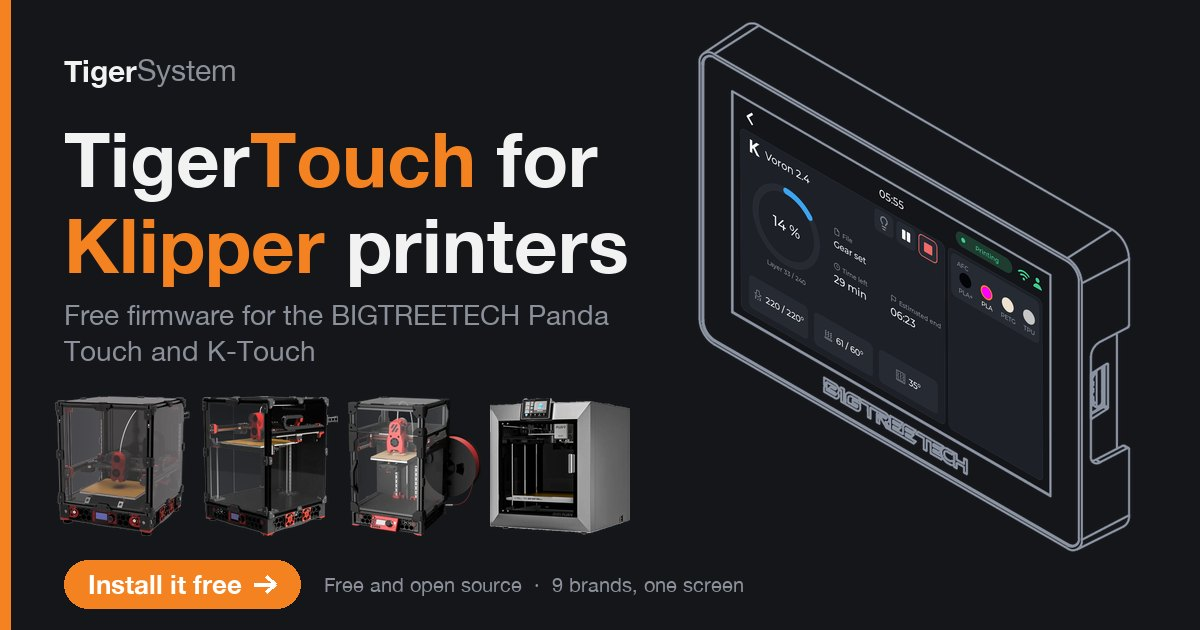
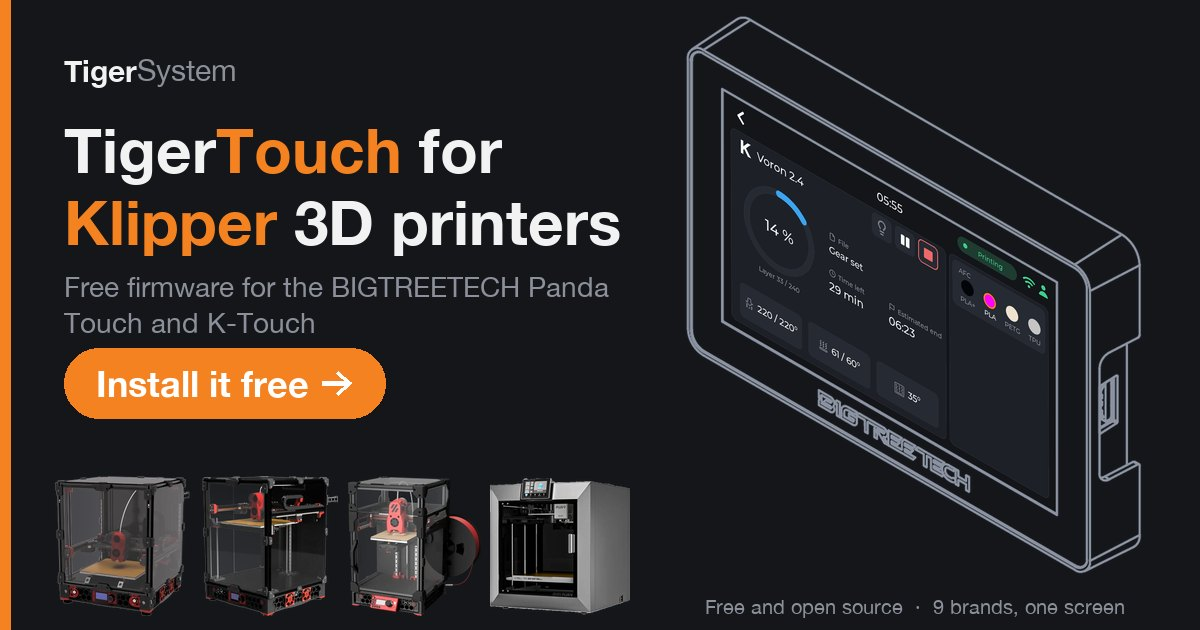
3D printers in every title; share pictures: a large button above the printers

diff --git a/scripts/make-brand-pages.py b/scripts/make-brand-pages.py
@@ -137,7 +137,7 @@ FEATURES = [
 def page(b, brands, pieces, svg):
     slug, name = b["slug"], b["name"]
     url = BASE + slug + "/"
-    title = "%s printers on Panda Touch / K-Touch | Tiger Touch" % name  # 60 characters at most
+    title = "%s 3D printers on Panda Touch & K-Touch | TigerTouch" % name  # 60 characters at most
     desc = b["meta"]  # written for search results: 150-160 characters, a whole sentence
     img = BASE + "img/%s.png" % slug
     # With its fingerprint: a network that cached an older picture fetches the new one.
@@ -180,19 +180,19 @@ def page(b, brands, pieces, svg):
 <link rel="canonical" href="{url}">
 <meta property="og:type" content="website">
 <meta property="og:site_name" content="Tiger Touch">
-<meta property="og:title" content="Tiger Touch for {name} printers">
+<meta property="og:title" content="Tiger Touch for {name} 3D printers">
 <meta property="og:description" content="{ogdesc}">
 <meta property="og:url" content="{url}">
 <meta property="og:locale" content="en_US">
 <meta property="og:image" content="{og}">
 <meta property="og:image:width" content="1200">
 <meta property="og:image:height" content="630">
-<meta property="og:image:alt" content="TigerTouch for {name} printers: the screen showing a {name} printer, and its lineup">
+<meta property="og:image:alt" content="TigerTouch for {name} 3D printers: the screen showing a {name} printer, and its lineup">
 <meta name="twitter:card" content="summary_large_image">
-<meta name="twitter:title" content="Tiger Touch for {name} printers">
+<meta name="twitter:title" content="Tiger Touch for {name} 3D printers">
 <meta name="twitter:description" content="{ogdesc}">
 <meta name="twitter:image" content="{og}">
-<meta name="twitter:image:alt" content="TigerTouch for {name} printers: the screen showing a {name} printer, and its lineup">
+<meta name="twitter:image:alt" content="TigerTouch for {name} 3D printers: the screen showing a {name} printer, and its lineup">
 <link rel="icon" href="favicon.svg" type="image/svg+xml">
 <link rel="stylesheet" href="../site.css?v={v_css}">
 <script>try {{ var t = localStorage.getItem("tigertouch-theme"); if (t === "light" || t === "dark") document.documentElement.dataset.theme = t; }} catch (e) {{}}</script>
@@ -220,7 +220,7 @@ def page(b, brands, pieces, svg):
     <div class="intro">
       <div class="bp-head">
         {logo_svg}
-        <h1 class="bp-title">Tiger<span>Touch</span> for <span>{name}</span> printers</h1>
+        <h1 class="bp-title">Tiger<span>Touch</span> for <span>{name}</span> 3D printers</h1>
       </div>
       <p class="lead">{lead}</p>
       <dl class="facts">
@@ -255,7 +255,7 @@ def page(b, brands, pieces, svg):
   </section>
 
   <section class="card bp-sec">
-    <h2>What the screen shows for a {name} printer</h2>
+    <h2>What the screen shows for a {name} 3D printer</h2>
     <ul class="ticks">{shows}</ul>
     <h3>Pause, stop and the light</h3>
     <p>{controls}</p>

diff --git a/scripts/make-og-images.py b/scripts/make-og-images.py
@@ -62,7 +62,7 @@ def card(title2, sub, device, printers, footer, font):
     d = ImageDraw.Draw(im)
     d.rectangle((0, 0, 10, H), fill=ACCENT)
     # The screen on the right, the words on the left.
-    paste_fit(im, device, (650, 18, 530, 540))
+    paste_fit(im, device, (650, 12, 530, 568))
     d.text((64, 52), "Tiger", font=font(30), fill=TEXT)
     d.text((64 + d.textlength("Tiger", font=font(30)), 52), "System", font=font(30, False), fill=MUTED)
     l1 = [("Tiger", TEXT), ("Touch", ACCENT), (" for" if title2 else "", TEXT)]
@@ -83,21 +83,23 @@ def card(title2, sub, device, printers, footer, font):
     for r in rows:
         d.text((64, y), r, font=so, fill=MUTED)
         y += so.size + 8
+    # What to do next, as the site's own button, big, under the words.
+    cta = "Install it free"
+    co = font(36)
+    tw = d.textlength(cta, font=co) + 44  # the text, then a drawn arrow (no font has one here)
+    top = y + 6
+    d.rounded_rectangle((64, top, 64 + tw + 64, top + 70), radius=35, fill=ACCENT)
+    d.text((64 + 32, top + 35), cta, font=co, fill=(255, 255, 255), anchor="lm")
+    ax = 64 + 32 + tw - 30
+    d.line((ax, top + 35, ax + 26, top + 35), fill=(255, 255, 255), width=5)
+    d.line((ax + 15, top + 24, ax + 27, top + 35, ax + 15, top + 46), fill=(255, 255, 255), width=5, joint="curve")
     # A few of the brand's printers along the bottom.
     x = 52
     for p in printers[:4]:
-        paste_fit(im, p, (x, 396, 140, 140))
+        paste_fit(im, p, (x, 476, 140, 140))
         x += 146
-    # What to do next, as the button the site uses: a click is what a share wants.
-    cta = "Install it free"
-    co = font(26)
-    tw = d.textlength(cta, font=co) + 34  # the text, then a drawn arrow (no font has one here)
-    d.rounded_rectangle((64, 560, 64 + tw + 48, 608), radius=24, fill=ACCENT)
-    d.text((64 + 24, 584), cta, font=co, fill=(255, 255, 255), anchor="lm")
-    ax = 64 + 24 + tw - 22
-    d.line((ax, 584, ax + 20, 584), fill=(255, 255, 255), width=4)
-    d.line((ax + 12, 576, ax + 21, 584, ax + 12, 592), fill=(255, 255, 255), width=4, joint="curve")
-    d.text((64 + tw + 72, 584), footer, font=font(20, False), fill=MUTED, anchor="lm")
+    # The small print, under the screen's drawing.
+    d.text((915, 606), footer, font=font(20, False), fill=MUTED, anchor="mm")
     return im.convert("RGB")
 
 
@@ -112,7 +114,7 @@ def main():
     models = ROOT / "assets" / "printers" / "models"
     footer = "Free and open source  ·  9 brands, one screen"
     for b in data:
-        im = card([(b["name"], ACCENT), (" printers", TEXT)],
+        im = card([(b["name"], ACCENT), (" 3D printers", TEXT)],
                   "Free firmware for the BIGTREETECH Panda Touch and K-Touch",
                   ROOT / "assets" / "devices" / "brands" / (b["shot"] + ".png"),
                   [models / m[0] for m in b["lineup"]], footer, font)

diff --git a/CHANGELOG.md b/CHANGELOG.md
@@ -105,8 +105,10 @@ they were written.
   own (125 characters at most, where previews cut; the search description stays
   150 to 160), an "Install it free" button in every share picture, and the
   picture's address carries its fingerprint so networks drop an old copy.
-  Page titles hold 60 characters at most ("<Brand> printers on Panda Touch /
-  K-Touch | Tiger Touch"). All ten pages: 0 error, 0 warning.
+  Page titles hold 60 characters at most ("<Brand> 3D printers on Panda Touch
+  & K-Touch | TigerTouch"); headings, share titles and descriptions say "3D
+  printers". In the share pictures the button is large, above the printers, and
+  the small print sits under the screen's drawing.
 - **The README and llms.txt link every brand page**: the brands of the
   printer table and a line under it in the README, a section of its own in
   `llms.txt`, so that search engines and AI assistants find each page.
